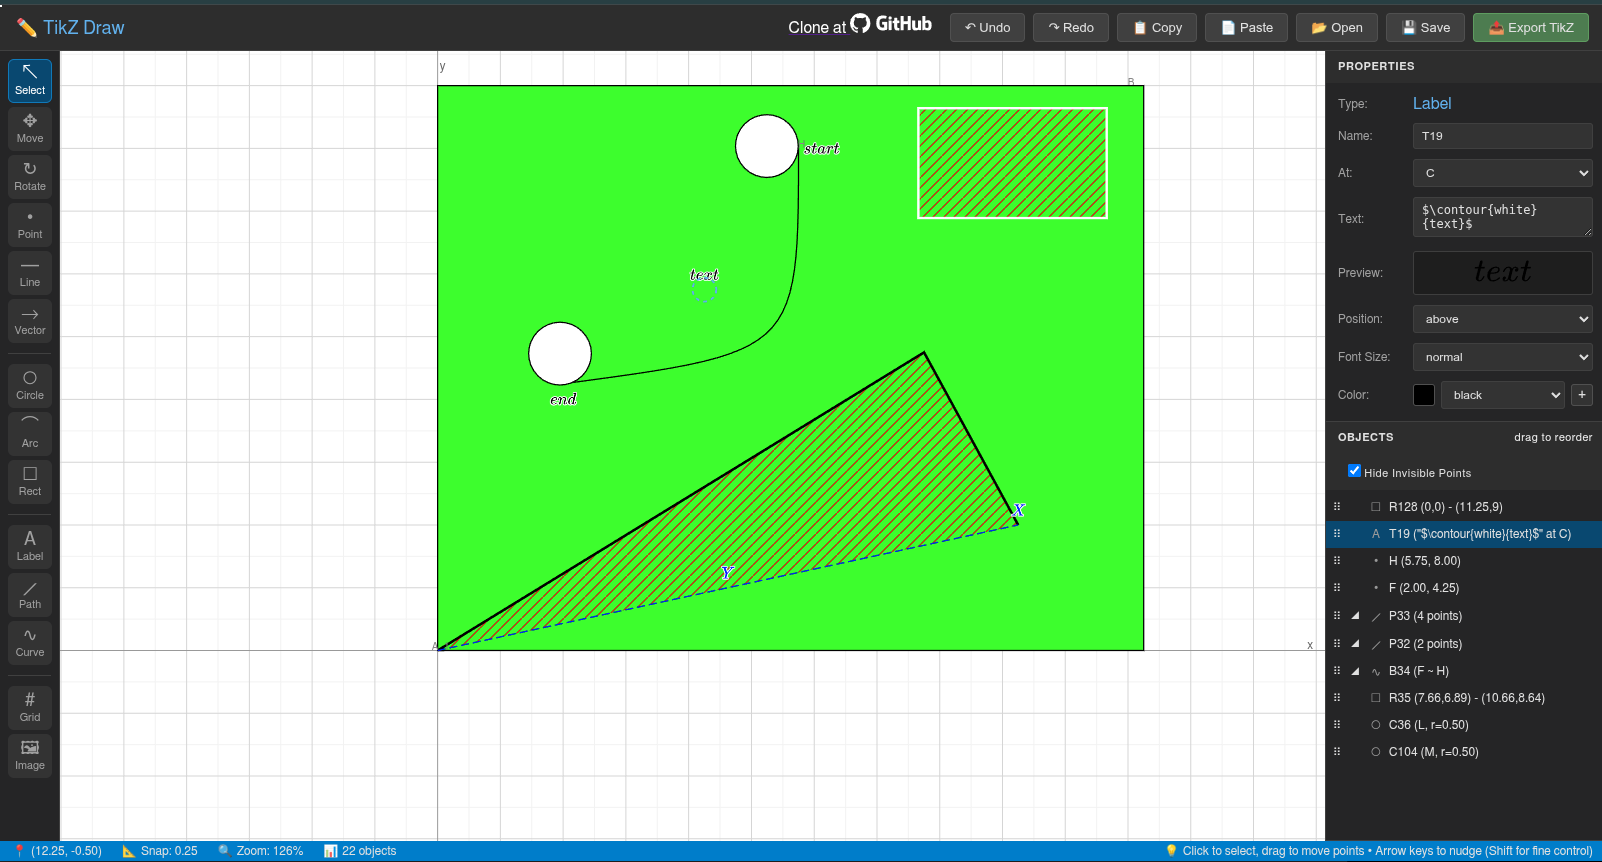
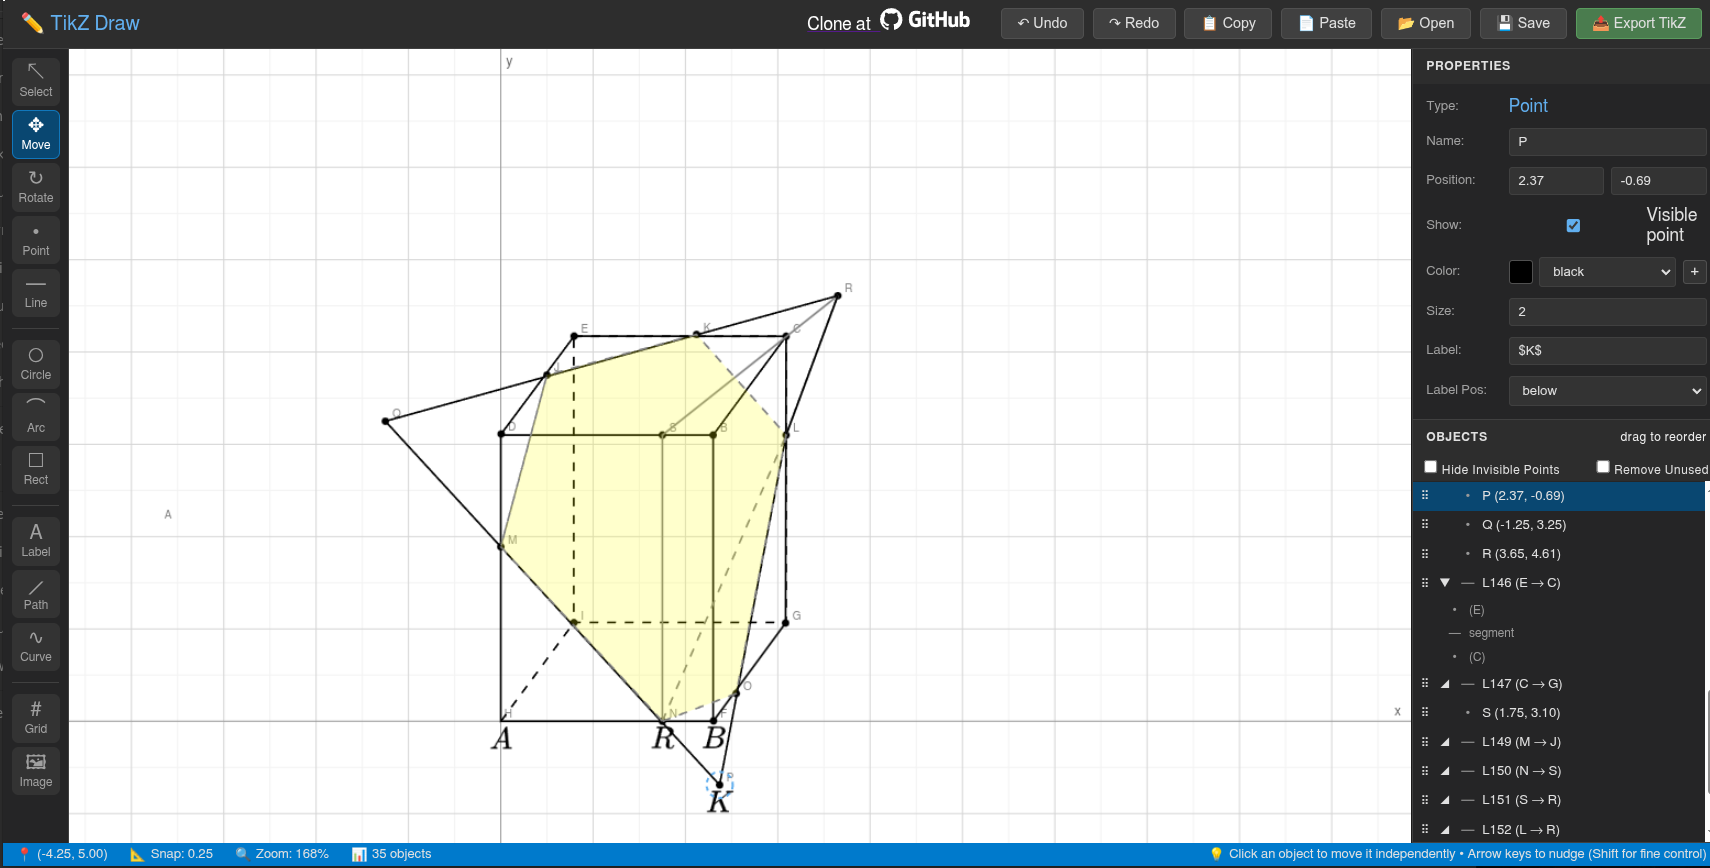
update README

diff --git a/README.md b/README.md
@@ -2,6 +2,12 @@
 
 A browser-based visual editor for creating TikZ diagrams. Draw geometric shapes, add LaTeX labels, and export clean TikZ code for use in LaTeX documents.
 
+<p align="center">
+  <a href="https://tikz-draw.online">
+    <img src="https://img.shields.io/badge/🚀_Try_the_Live_Demo-tikz--draw.online-blue?style=for-the-badge&labelColor=2d3748&color=4299e1" alt="Try the Live Demo" height="50">
+  </a>
+</p>
+
 ![TikZ Draw Screenshot](screenshot.png)
 
 ## Features
@@ -27,7 +33,7 @@ A browser-based visual editor for creating TikZ diagrams. Draw geometric shapes,
 
 ## Getting Started
 
-Simply open `tikz-draw.html` in a modern web browser. No installation or server required. [Try the live demo](https://tikz-draw.online)
+Simply open `tikz-draw.html` in a modern web browser. No installation or server required.
 
 ```bash
 # Clone the repository
